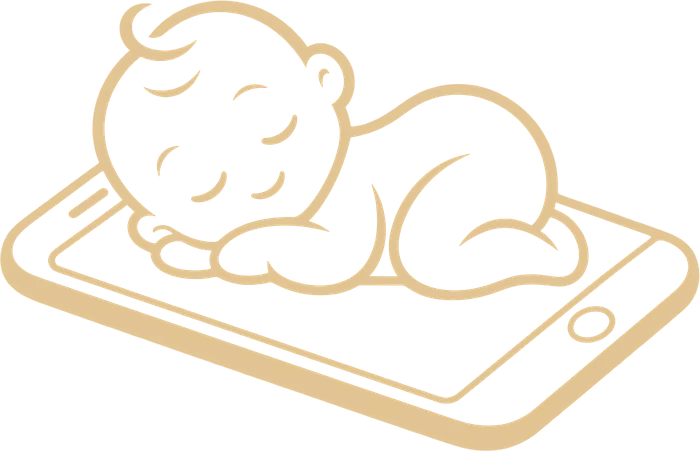
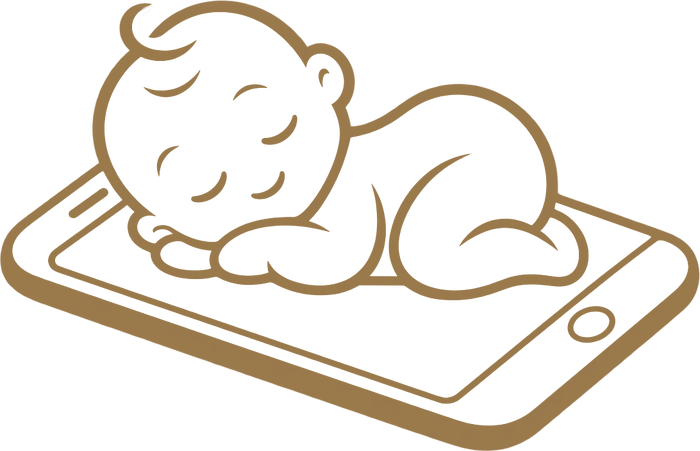
Final CTA: smaller gold baby illustration sitting lower, close to the title

diff --git a/index.html b/index.html
@@ -452,7 +452,7 @@ section{position:relative}
 .final .bg::after{content:"";position:absolute;inset:0;background:radial-gradient(80% 60% at 50% 40%,rgba(21,56,72,.55),var(--navy) 85%)}
 .final .wrap{position:relative;z-index:4}
 .final img.mark{width:96px;margin:0 auto 24px;filter:drop-shadow(0 10px 20px rgba(0,0,0,.3))}
-.final img.mark-phone{width:clamp(84px,8vw,112px);filter:none;margin-bottom:18px}
+.final img.mark-phone{width:clamp(64px,6vw,84px);filter:none;margin:40px auto 6px}
 .final h2{font-size:clamp(50px,14vw,104px);line-height:1}
 .final h2 em{font-style:normal;color:var(--gold-2)}
 .final p{max-width:38ch;margin:22px auto 34px;color:rgba(255,255,255,.78);font-size:18px}
